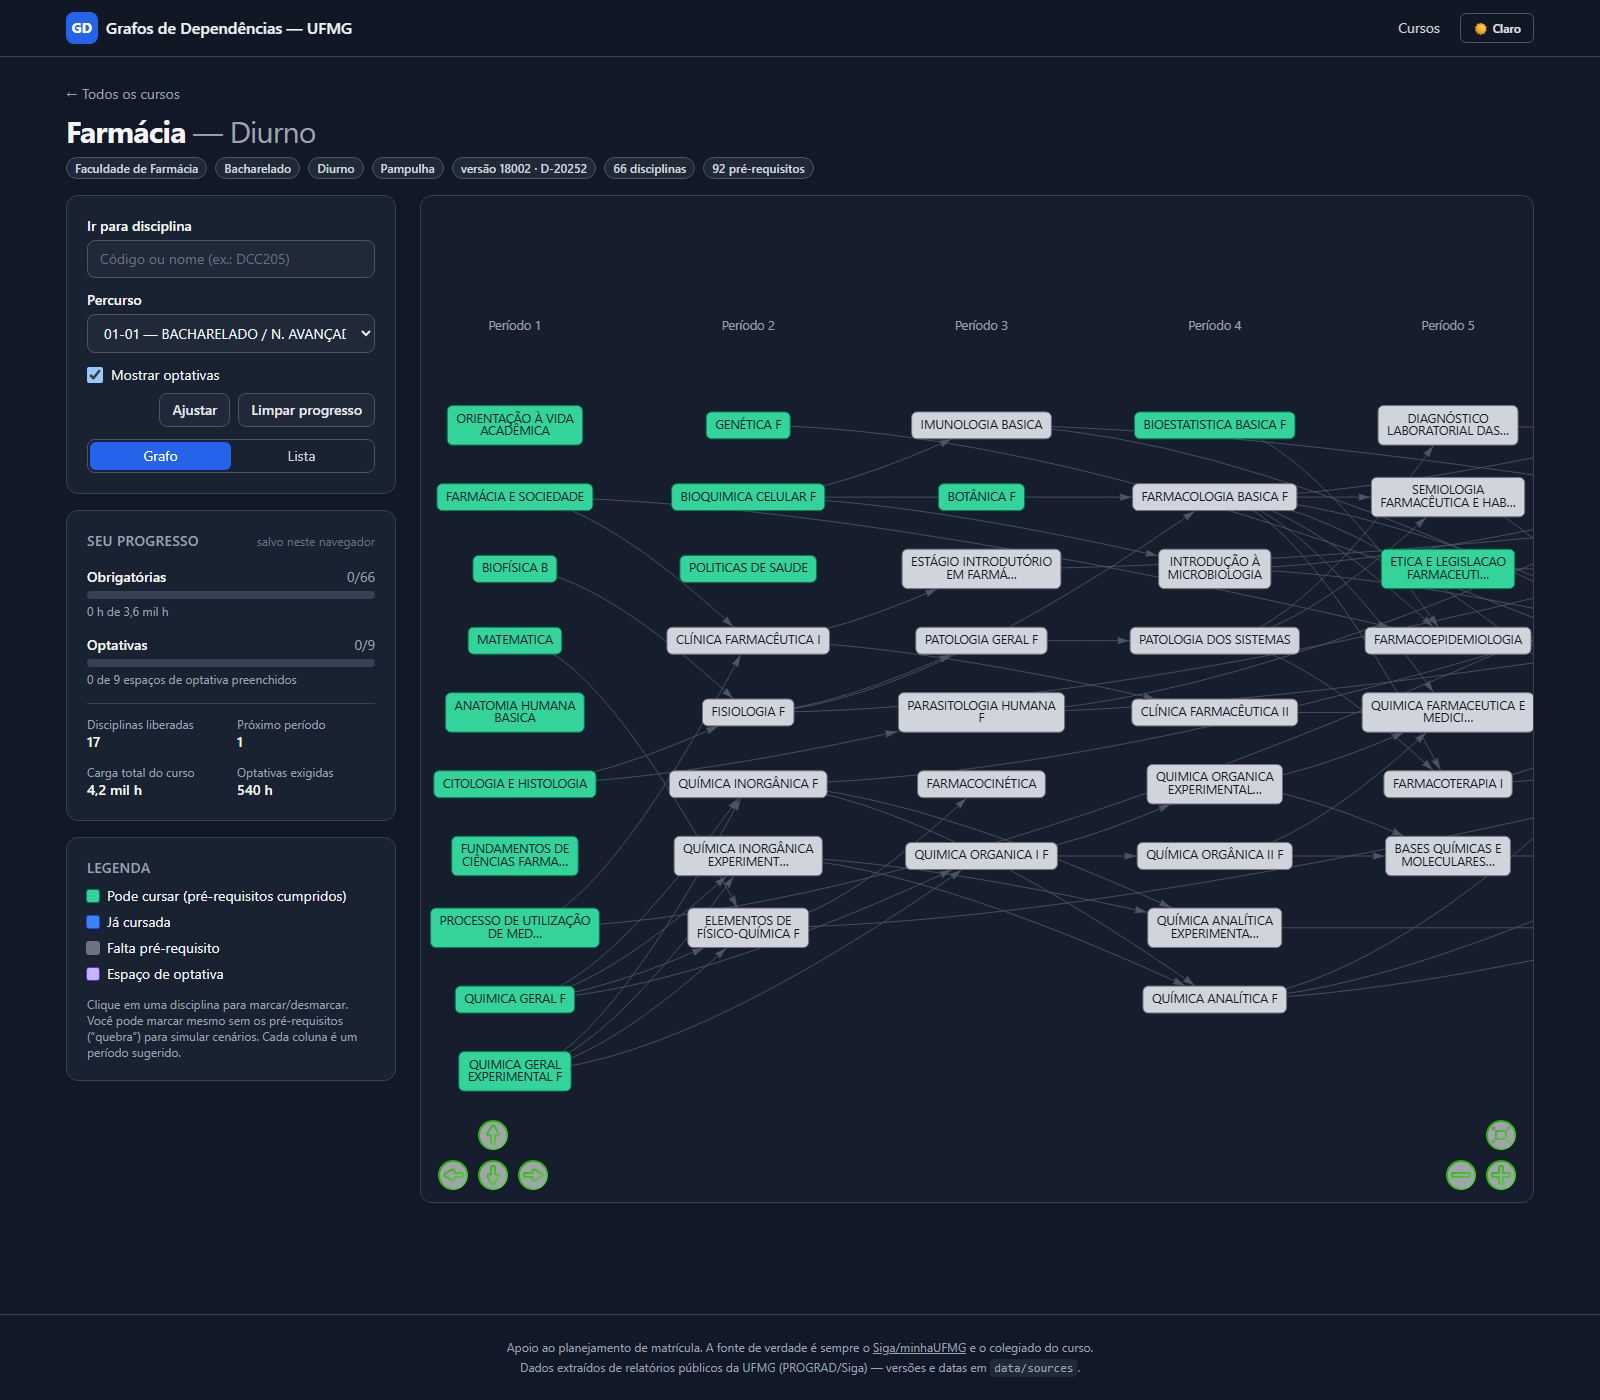
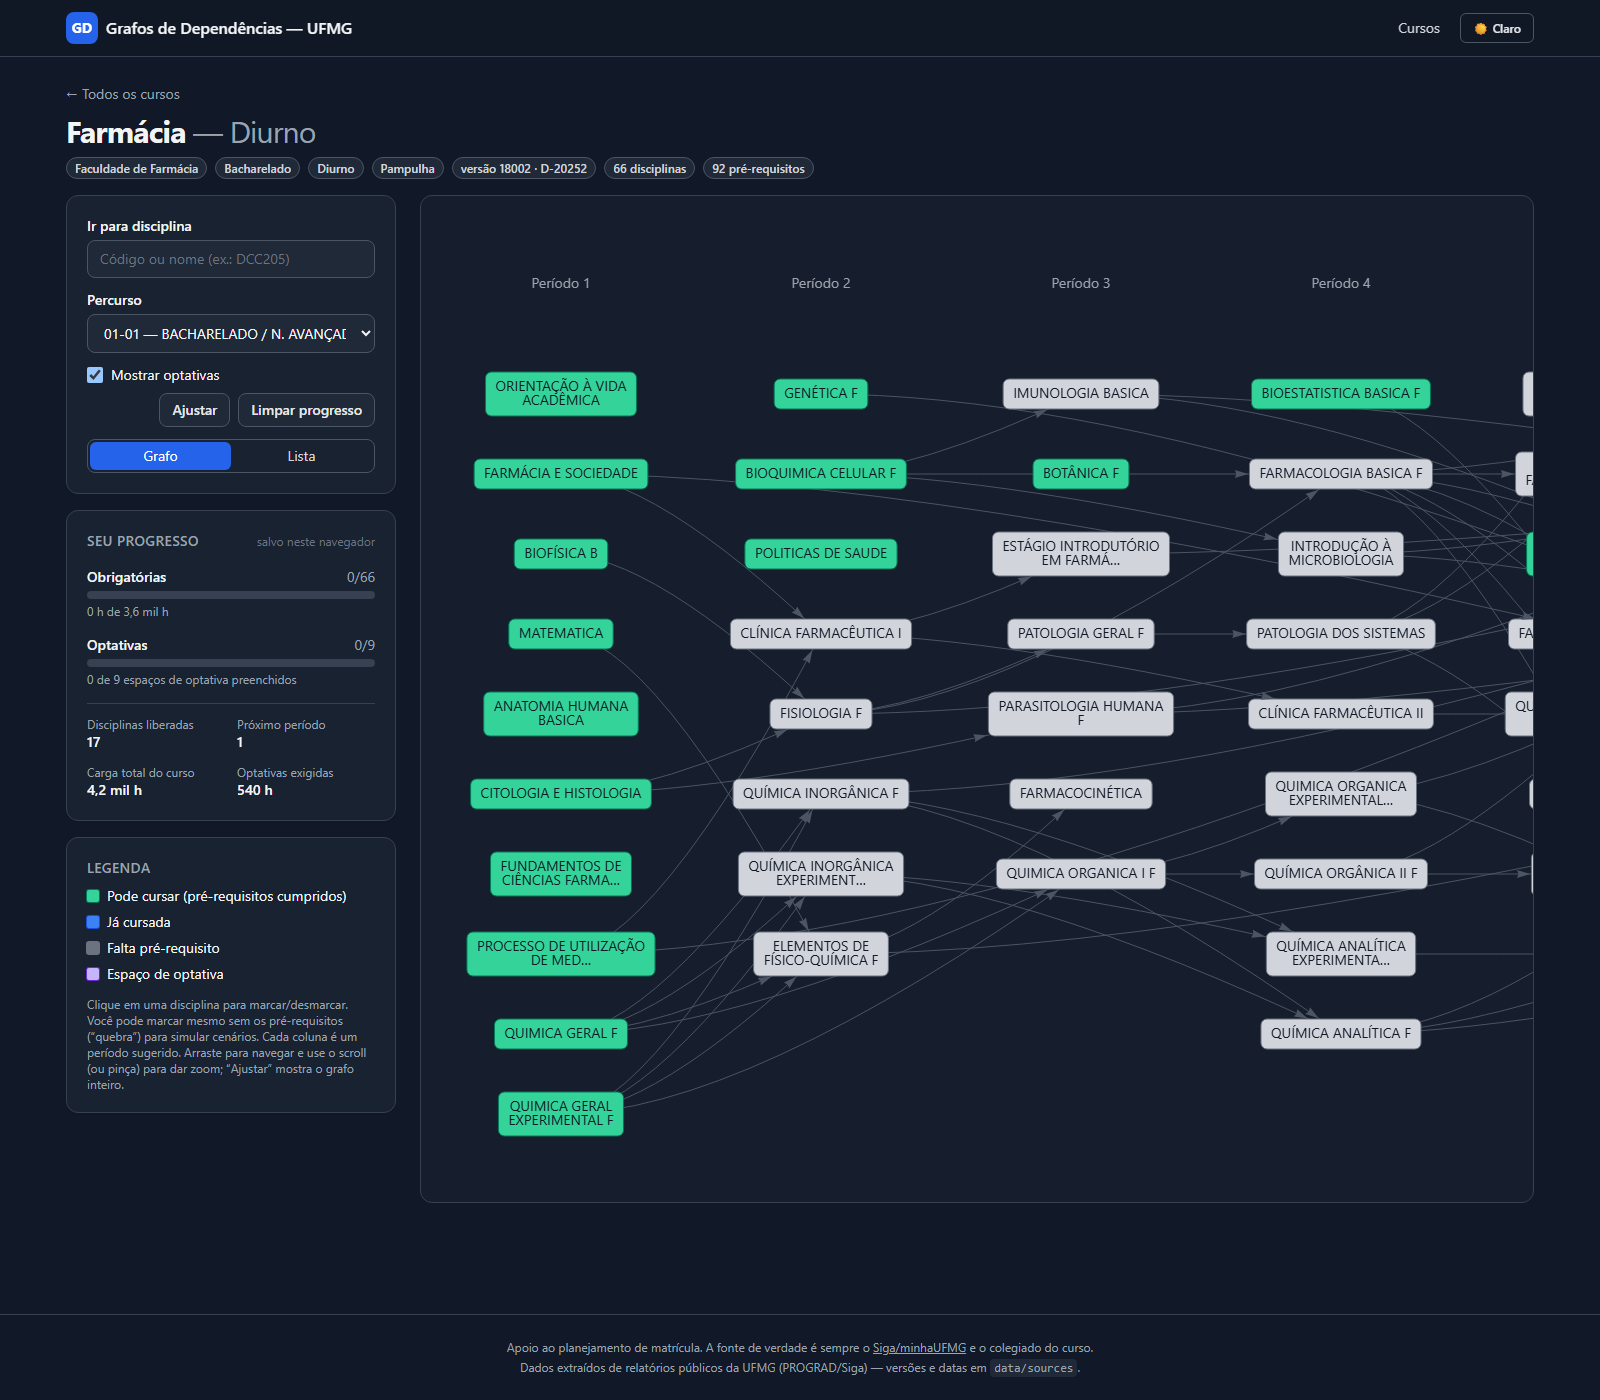
Corrige clique nas disciplinas do grafo e polir a visualização
- Clique em disciplina voltava a não marcar/desmarcar: o evento 'click' do vis-network
  expõe params.nodes a partir da seleção, e os nós não são selecionáveis
  (interaction.selectable=false). O handler agora faz o hit-test com
  network.getNodeAt(params.pointer.DOM).
- Remove os botões de navegação/zoom (setinhas) do canvas; zoom continua por scroll/pinça
  e o botão 'Ajustar' mostra o grafo inteiro.
- Câmera inicial em 100% de zoom (texto nítido) em vez de escala fracionária; margem
  esquerda corrigida para o 1º período não ficar cortado.
- 'Mostrar optativas' some quando a matriz não tem optativas mapeadas e aparece um aviso
  (caso dos cursos de Física); quando há slots o toggle segue funcionando.
- Legenda explica arrastar/scroll/Ajustar; hook window.__graphNetwork com ?debug=1 para
  testes e2e (usado para validar clique e toggle).
- Screenshots atualizados.

diff --git a/src/components/CourseGraph.vue b/src/components/CourseGraph.vue
@@ -52,7 +52,7 @@ function baseOptions() {
             dragNodes: true,
             tooltipDelay: 150,
             zoomView: true,
-            navigationButtons: true,
+            navigationButtons: false,
             keyboard: false,
         },
         nodes: {
@@ -150,11 +150,18 @@ function mountNetwork() {
     network = new Network(container.value, { nodes: nodesSet, edges: edgesSet }, baseOptions())
 
     network.on('click', (params) => {
-        if (!params.nodes.length) return
-        const nodeId = params.nodes[0]
+        // O evento "click" do vis-network traz params.nodes apenas quando há seleção;
+        // como os nós não são selecionáveis, fazemos o hit-test pelo ponteiro.
+        const nodeId = network.getNodeAt(params.pointer.DOM)
+        if (nodeId === undefined || nodeId === null) return
         if (String(nodeId).startsWith('__level_')) return
         emit('toggle', nodeId)
     })
+
+    // expõe a instância para depuração/ testes e2e: abra a página com ?debug=1
+    if (typeof window !== 'undefined' && window.location.search.includes('debug')) {
+        window.__graphNetwork = network
+    }
 
     scheduleInitialView(0)
 }
@@ -189,9 +196,8 @@ function fitAll() {
 }
 
 /**
- * Câmera inicial: começa nos primeiros períodos com zoom legível.
- * Se o grafo inteiro couber na tela, mostra tudo; senão alinha à esquerda
- * (o usuário arrasta/usa os botões de navegação para o restante).
+ * Câmera inicial: começa nos primeiros períodos com zoom 100% (texto nítido).
+ * O grafo inteiro pode ser visto pelo botão "Ajustar".
  */
 function goToStart() {
     if (!network || !container.value) return
@@ -202,30 +208,15 @@ function goToStart() {
     for (const level of levels) rowsByLevel.set(level, (rowsByLevel.get(level) ?? 0) + 1)
 
     const minX = Math.min(...levels) * LEVEL_SPACING
-    const maxX = Math.max(...levels) * LEVEL_SPACING
     const minY = HEADER_OFFSET
     const maxY = (Math.max(...rowsByLevel.values()) - 1) * ROW_SPACING
-
     const width = container.value.clientWidth
-    const height = container.value.clientHeight
-    const graphWidth = maxX - minX + 320
-    const graphHeight = maxY - minY + 120
-    const fitScale = Math.min(width / graphWidth, height / graphHeight)
+    const scale = 1
 
-    if (fitScale >= 0.75) {
-        network.moveTo({
-            scale: Math.min(fitScale, 1),
-            position: { x: (minX + maxX) / 2, y: (minY + maxY) / 2 },
-            animation: false,
-        })
-        return
-    }
-
-    const scale = 0.8
     network.moveTo({
         scale,
         position: {
-            x: minX - 180 + width / 2 / scale,
+            x: minX - 140 + width / 2 / scale,
             y: (minY + maxY) / 2,
         },
         animation: false,

diff --git a/src/views/CourseView.vue b/src/views/CourseView.vue
@@ -59,6 +59,10 @@ const nextPeriod = computed(() =>
 
 const disciplinesByCode = computed(() => state.course?.disciplines ?? {})
 
+const hasOptionalSlots = computed(() =>
+    (state.course?.percursos ?? []).some((percurso) => (percurso.optionalSlots ?? []).length > 0)
+)
+
 const suggestions = computed(() => {
     const term = search.value.trim()
     if (term.length < 2 || !graph.value) return []
@@ -243,7 +247,10 @@ function prerequisiteLabel(code) {
                         </label>
 
                         <div class="flex flex-wrap items-center gap-2">
-                            <label class="inline-flex cursor-pointer items-center gap-2 text-sm">
+                            <label
+                                v-if="hasOptionalSlots"
+                                class="inline-flex cursor-pointer items-center gap-2 text-sm"
+                            >
                                 <input
                                     v-model="showOptionalSlots"
                                     type="checkbox"
@@ -251,6 +258,12 @@ function prerequisiteLabel(code) {
                                 />
                                 Mostrar optativas
                             </label>
+                            <span
+                                v-else
+                                class="inline-flex items-center gap-2 text-xs text-amber-600 dark:text-amber-400"
+                            >
+                                Esta matriz não tem optativas mapeadas
+                            </span>
                             <div class="ml-auto flex gap-2">
                                 <button
                                     v-if="viewMode === 'graph'"
@@ -337,7 +350,8 @@ function prerequisiteLabel(code) {
                         <p class="mt-3 text-xs text-gray-500 dark:text-gray-400">
                             Clique em uma disciplina para marcar/desmarcar. Você pode marcar mesmo
                             sem os pré-requisitos (“quebra”) para simular cenários. Cada coluna é um
-                            período sugerido.
+                            período sugerido. Arraste para navegar e use o scroll (ou pinça) para
+                            dar zoom; “Ajustar” mostra o grafo inteiro.
                         </p>
                     </section>
                 </aside>
